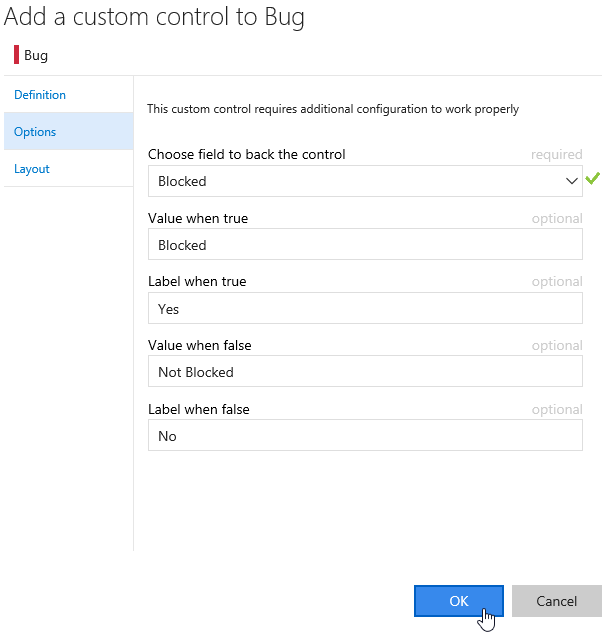
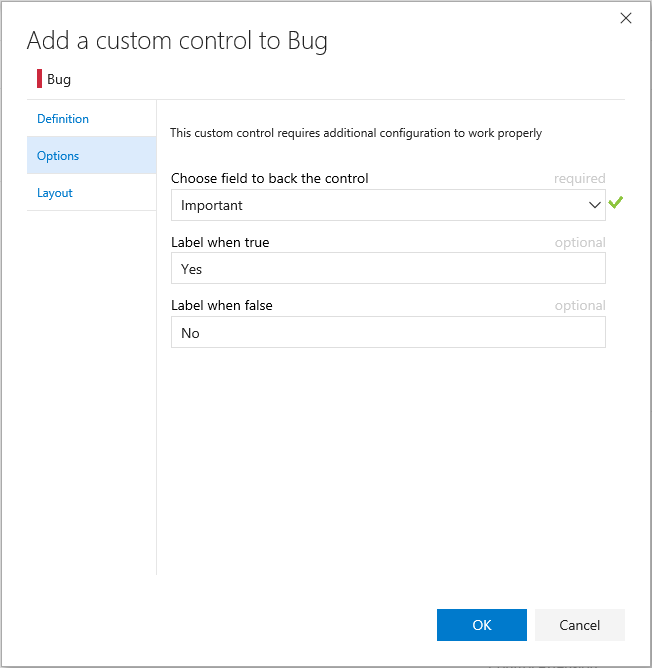
Updated to reflect change to config dialog

diff --git a/details.md b/details.md
@@ -19,8 +19,6 @@
 
 ![Configuration](img/configuration.png)
 
-> Supported field types are boolean fields and picklists with only two values.
-
 ## TFS On-Premise 
 
 We recommend TFS 2015 RC2 and higher when running this extension.
